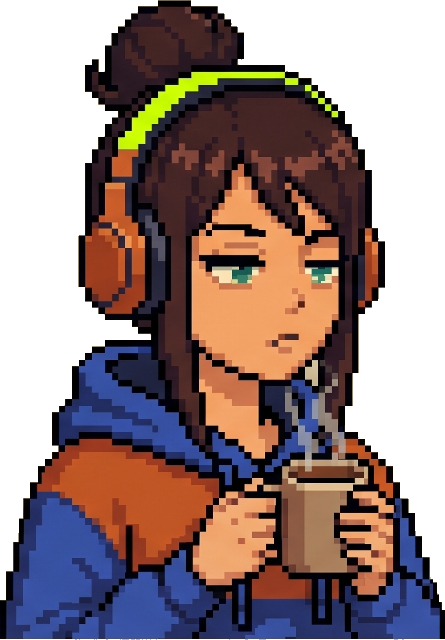
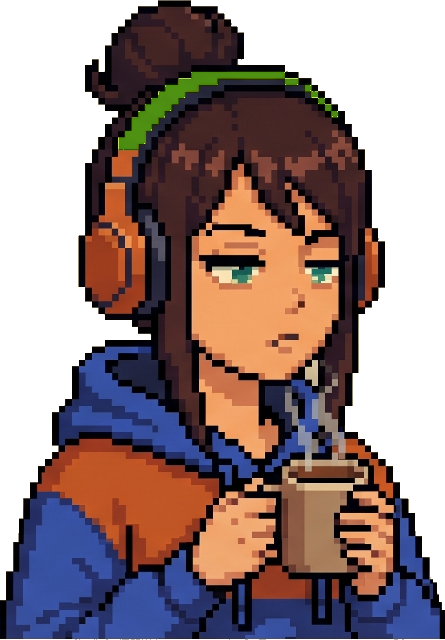
fix(web): los hallazgos del tercer juicio que sobrevivieron a la refutacion
Panel de 4 dimensiones + un esceptico por hallazgo grave. De 13 hallazgos,
8 se cayeron al refutarlos. Los que sobrevivieron:

BLOQUEANTE 1 — el reloj contaba el futuro como pasado. `horasCerrado` valia
`hoursSinceLastTrade + hoursUntilOpen` cuando la proxima apertura esta
publicada, y se imprimia con la palabra "so far", que afirma tiempo YA pasado.
Medido en produccion: decia "17.5 h with no reference price so far" tres lineas
debajo de su propio "CLOSED FOR 10.8 H" — sobrestimando en 62 % la magnitud que
es la tesis entera del producto. El dibujo lo confesaba: 27,6 puntos de la
franja caian a la DERECHA de AHORA. Ahora se parte en transcurrido + faltante.

BLOQUEANTE 2 — con el mercado CERRADO, el lima prohibido era el objeto de mayor
contraste de la pagina. `theme.css` fijaba una sola hoja para las cuatro fases:
medido, 4.731 px de lima de marca en pantalla a las 2 de la maniana, o sea que
el acento que significa "el mercado esta abierto" se mostraba con el mercado
cerrado y la senial dejaba de seniar. Y `analyst-dawn.png` tenia el mismo
defecto (2.690 px) aunque el avatar SI rutea por fase. Se generan las hojas sin
lima con `scripts/deslimar.py`, remapeando al oliva #4d8d12 que la propia hoja
de noche YA usaba para la misma vincha — el destino esta medido, no elegido.
Control: 0 px de lima de marca en los cuatro assets de mercado cerrado.

ALTO — el panel de honestidad subestimaba su peor hueco ~36x. `missedSamples`
[…]

Changed region(s): [[0.2629, 0.0938, 0.6427, 0.25], [0.6427, 0.125, 0.7303, 0.1562], [0.7303, 0.1562, 0.7596, 0.1875]]

diff --git a/src/app/instruments.tsx b/src/app/instruments.tsx
@@ -33,12 +33,25 @@ export function DayClock({
   runs,
   hoursSinceLastTrade,
   abierto,
+  ranurasCumplidas,
 }: {
   now: number
   session: { start: number; end: number } | null
   runs: number[]
   hoursSinceLastTrade: number | null
   abierto: boolean
+  /**
+   * Ranuras del tramo que efectivamente ocurrieron, calculadas UNA vez en la
+   * pagina y compartidas con la fachada.
+   *
+   * No se recuentan acá a proposito. Contando `runs` el reloj decia 19 y la
+   * fachada 18 en la misma pantalla: con corridas solapadas —que es el estado
+   * normal desde que un job cubre 5,5 h— dos lecturas caen en la misma ranura
+   * de 15 minutos, asi que "corridas" y "ranuras cumplidas" son numeros
+   * distintos. Compartir la fuente hace que no puedan divergir nunca, que es
+   * lo mismo que `street.tsx` ya hace entre su dibujo y su barra de titulo.
+   */
+  ranurasCumplidas: number
 }) {
   const desde = now - MEDIA
   const hasta = now + MEDIA
@@ -66,9 +79,20 @@ export function DayClock({
   const abreConocido = abreEn !== null && abreEn > cierraEn!
   const mostrarCerrado = !abierto && cierraEn !== null && cierraEn < hasta
 
-  const horasCerrado = mostrarCerrado
-    ? ((abreConocido ? abreEn! : now) - cierraEn!) / HORA
-    : null
+  // TRANSCURRIDO Y FALTANTE, SEPARADOS. Antes esto era una sola cifra que, con
+  // la proxima apertura publicada, valia `hoursSinceLastTrade + hoursUntilOpen`
+  // — o sea el tramo COMPLETO proyectado — y se imprimia con la palabra
+  // "so far", que afirma tiempo ya pasado. Medido en produccion: decia 17,5 h
+  // tres lineas debajo de su propio "CLOSED FOR 10.8 H", sobrestimando en 62 %
+  // la magnitud que es la tesis entera del producto. El dibujo lo confesaba:
+  // 27,6 puntos de la franja caian a la DERECHA de AHORA.
+  const horasTranscurridas = mostrarCerrado ? (now - cierraEn!) / HORA : null
+  const horasFaltan = mostrarCerrado && abreConocido ? (abreEn! - now) / HORA : null
+  // Las corridas son las del TRAMO y salen de la MISMA fuente que la fachada:
+  // `runs.length` incluia corridas anteriores a la campana (el reloj decia 27
+  // donde el panel de al lado decia 18), y recontarlas acá volvia a divergir
+  // por uno en cuanto dos lecturas caian en la misma ranura.
+  const corridasDentro = ranurasCumplidas
 
   const enBanda = (t: number) => t >= desde && t <= hasta
 
@@ -115,11 +139,13 @@ export function DayClock({
       </div>
 
       <p className="dcLegend">
-        {horasCerrado !== null
-          ? `${horasCerrado.toFixed(1)} h with no reference price so far, and ${runs.length} run${
-              runs.length === 1 ? '' : 's'
+        {horasTranscurridas !== null
+          ? `${horasTranscurridas.toFixed(1)} h with no reference price so far, and ${corridasDentro} run${
+              corridasDentro === 1 ? '' : 's'
             } inside it.${
-              abreConocido ? '' : ' The next session is not published yet, so the stretch runs off the edge rather than guessing an end.'
+              horasFaltan !== null
+                ? ` ${horasFaltan.toFixed(1)} h to go before the bell.`
+                : ' The next session is not published yet, so the stretch runs off the edge rather than guessing an end.'
             }`
           : abierto
             ? 'Wall Street is open. Both prices move at once, so the gap is indicative.'

diff --git a/src/app/page.tsx b/src/app/page.tsx
@@ -273,6 +273,7 @@ export default async function Page() {
           runs={runs}
           hoursSinceLastTrade={market ? market.hoursSinceLastTrade : null}
           abierto={abierto}
+          ranurasCumplidas={fachada.encendidas}
         />
       </Win>
 
@@ -581,7 +582,7 @@ export default async function Page() {
                 ? 'The archive started today, so most of the strip has not happened yet.'
                 : archive.gaps.length === 0
                   ? 'No missed runs.'
-                  : `${archive.gaps.length} gap${archive.gaps.length === 1 ? '' : 's'}, shown rather than smoothed over. The longest lost ${Math.max(...archive.gaps.map((g) => g.missedSamples))} readings.`}
+                  : `${archive.gaps.length} gap${archive.gaps.length === 1 ? '' : 's'}, shown rather than smoothed over. The longest lost ${Math.max(...archive.gaps.map((g) => g.missedSamples))} runs, about ${(Math.max(...archive.gaps.map((g) => g.missedSamples)) * board.rows.length).toLocaleString('en-US')} readings.`}
             </p>
           </>
         )}
@@ -619,8 +620,9 @@ export default async function Page() {
           <div>
             <dt>Archive</dt>
             <dd>
+              <a href="/archive">Raw JSONL, one line per reading</a>, and the{' '}
               <a href="https://github.com/0x-Keezy/afterhours/tree/main/data" rel="noreferrer noopener">
-                Raw JSONL, one line per reading
+                daily files in the repo
               </a>
             </dd>
           </div>

diff --git a/src/app/theme.css b/src/app/theme.css
@@ -1076,7 +1076,16 @@ td.spk {
   max-width: 14rem;
   margin: 0 auto;
   aspect-ratio: 256 / 640;
-  background-image: url('/pixel/analyst-idle.png');
+  /* POR DEFECTO, LA HOJA SIN LIMA. La regla dura de la pagina es que el lima
+     #CCFF00 solo existe con Wall Street abierta, y esta hoja se mostraba en las
+     CUATRO fases: medido, 4.731 px de lima de marca en pantalla a las 2 de la
+     manana. El objeto de mayor contraste de la pagina era el acento que
+     significa "el mercado esta abierto", asi que la senial dejaba de seniar.
+     El destino del remapeo no se invento: es el oliva #4d8d12 que la propia
+     hoja de noche ya usaba para la misma vincha (scripts/deslimar.py).
+     Atado igual que `.badge` y `.street i`: el lima solo vuelve en `day`, que
+     es exactamente la fase del mercado abierto. Falla del lado seguro. */
+  background-image: url('/pixel/analyst-idle-closed.png');
   background-repeat: no-repeat;
   background-size: 400% 100%;
   background-position: 0% 0;
@@ -1552,6 +1561,10 @@ a:focus-visible,
      = 2,439 %. Mismo ciclo y mismo `step-end` que el sprite, o el navegador
      interpola y la pantalla se desliza en vez de saltar. */
   animation: visorIdle 3.6s step-end infinite;
+}
+
+[data-phase="day"] .sprite {
+  background-image: url('/pixel/analyst-idle.png');
 }
 
 @keyframes visorIdle {

diff --git a/src/app/street.tsx b/src/app/street.tsx
@@ -100,7 +100,7 @@ export function Street({
         : `One window per scheduled run ${desde}: ${programadas} due, ${encendidas} lit${
             perdidas === 0
               ? '. None missed, so far.'
-              : `, and ${perdidas} crossed out for readings that never happened. A gap in the archive is a window that stays out.`
+              : `, and ${perdidas} crossed out for runs that never happened. A gap in the archive is a window that stays out.`
           }${pendientes > 0 ? ' The last one is still due.' : ''}`
 
   return (
@@ -115,7 +115,7 @@ export function Street({
             ? 'The building outside, entirely dark: the market state is unknown.'
             : abierto
               ? 'The building outside, every window lit: Wall Street is open.'
-              : `The building outside: ${encendidas} lit ${encendidas === 1 ? 'window' : 'windows'}, one for every run recorded ${desde}, and ${perdidas} crossed out for the readings that never happened.`
+              : `The building outside: ${encendidas} lit ${encendidas === 1 ? 'window' : 'windows'}, one for every run recorded ${desde}, and ${perdidas} crossed out for the runs that never happened.`
         }
       >
         {STREET_WINDOWS.slice(0, abierto && !desconocido ? TOTAL : programadas).map(

diff --git a/scripts/deslimar.py b/scripts/deslimar.py
@@ -1,0 +1,75 @@
+# -*- coding: utf-8 -*-
+"""
+Baja el lima de los assets del personaje que se muestran con el mercado CERRADO.
+
+POR QUE. La regla dura de la pagina es que el lima #CCFF00 sólo aparece con
+Wall Street abierta, y siempre como superficie. Medido sobre las hojas:
+
+    analyst-idle    5.593 px de lima  <- se muestra en LAS CUATRO fases
+    analyst-day     2.660 px          <- correcto: day = mercado abierto
+    analyst-dawn    2.690 px          <- MAL: dawn es mercado cerrado
+    analyst-night      30 px (#4d8d12)  <- ya resuelto, y de aca sale el destino
+    analyst-dusk        0 px          <- ya resuelto
+
+O sea que con el mercado cerrado el objeto de mayor contraste de la pagina era
+el acento que significa "el mercado esta abierto". La senial dejaba de seniar.
+
+EL DESTINO NO SE INVENTA: es el oliva #4d8d12 que la propia hoja de noche ya
+usa para la misma vincha. Se conserva el sombreado interno escalando el valor
+de cada pixel en vez de aplastar la familia a un color plano.
+
+Uso:  python scripts/deslimar.py
+"""
+import colorsys
+import numpy as np
+from PIL import Image
+
+DIR = 'public/pixel/'
+# Medido sobre analyst-night.png, no elegido a ojo.
+OLIVA = (0x4d, 0x8d, 0x12)
+
+# La familia lima, con el mismo criterio con el que se midio.
+H_MIN, H_MAX, S_MIN, V_MIN = 50.0, 95.0, 0.55, 0.55
+
+
+def mascara_lima(a):
+    rgb = a[:, :, :3] / 255.0
+    mx = rgb.max(2)
+    mn = rgb.min(2)
+    d = np.maximum(mx - mn, 1e-6)
+    r, g, b = rgb[:, :, 0], rgb[:, :, 1], rgb[:, :, 2]
+    h = np.where(mx == r, ((g - b) / d) % 6, np.where(mx == g, (b - r) / d + 2, (r - g) / d + 4)) * 60
+    s = np.where(mx > 0, (mx - mn) / np.maximum(mx, 1e-6), 0)
+    return (h >= H_MIN) & (h <= H_MAX) & (s >= S_MIN) & (mx >= V_MIN) & (a[:, :, 3] > 128)
+
+
+def deslimar(nombre, salida):
+    im = Image.open(DIR + nombre).convert('RGBA')
+    a = np.asarray(im).astype(float).copy()
+    m = mascara_lima(a)
+    n = int(m.sum())
+    if n == 0:
+        print(f'  {nombre}: ya no tiene lima, se copia tal cual')
+        im.save(DIR + salida)
+        return 0
+
+    oh, os_, ov = colorsys.rgb_to_hsv(*[c / 255.0 for c in OLIVA])
+    v_lima = (a[:, :, :3].max(2) / 255.0)[m]
+    escala = ov / max(v_lima.mean(), 1e-6)
+
+    ys, xs = np.nonzero(m)
+    for y, x in zip(ys, xs):
+        v = a[y, x, :3].max() / 255.0
+        # H y S van al oliva; V conserva el sombreado relativo de la vincha.
+        nv = min(1.0, v * escala)
+        r, g, b = colorsys.hsv_to_rgb(oh, os_, nv)
+        a[y, x, 0], a[y, x, 1], a[y, x, 2] = r * 255, g * 255, b * 255
+
+    Image.fromarray(a.astype(np.uint8), 'RGBA').save(DIR + salida)
+    print(f'  {nombre} -> {salida}: {n} px de lima bajados a la familia #{OLIVA[0]:02x}{OLIVA[1]:02x}{OLIVA[2]:02x}')
+    return n
+
+
+print('deslimando los assets que se muestran con el mercado cerrado:')
+deslimar('analyst-idle.png', 'analyst-idle-closed.png')
+deslimar('analyst-dawn.png', 'analyst-dawn.png')
